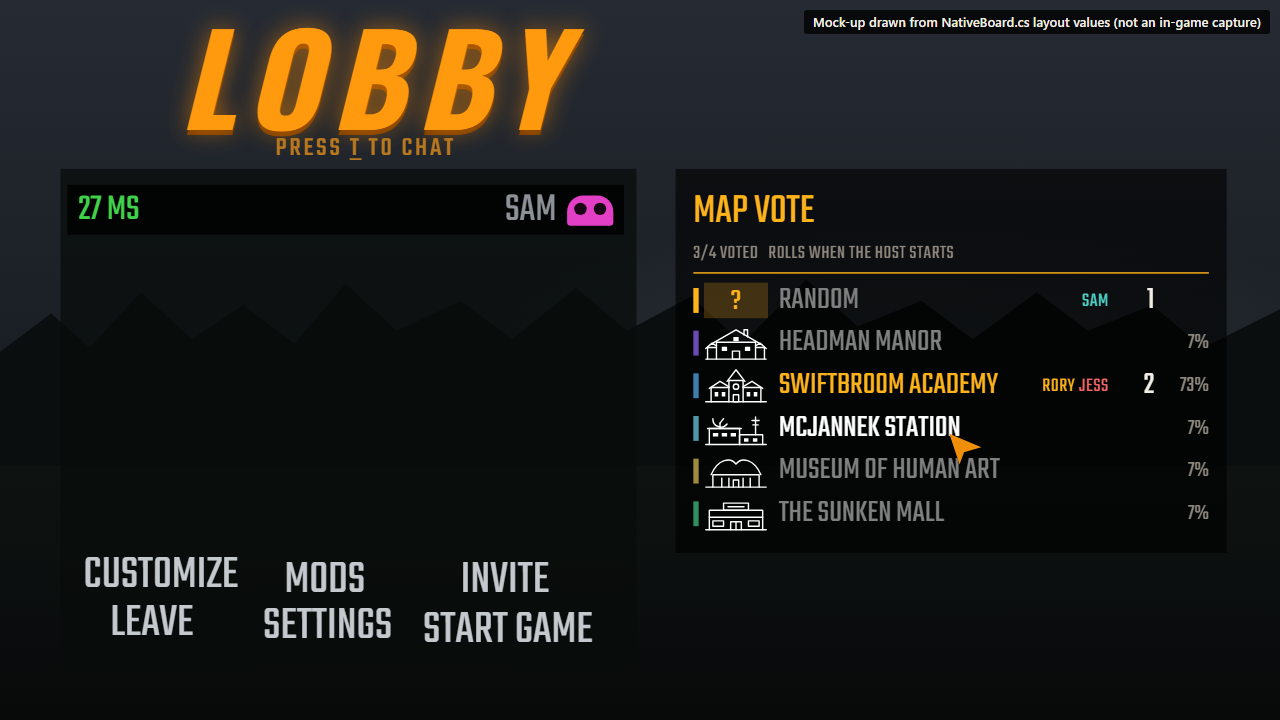
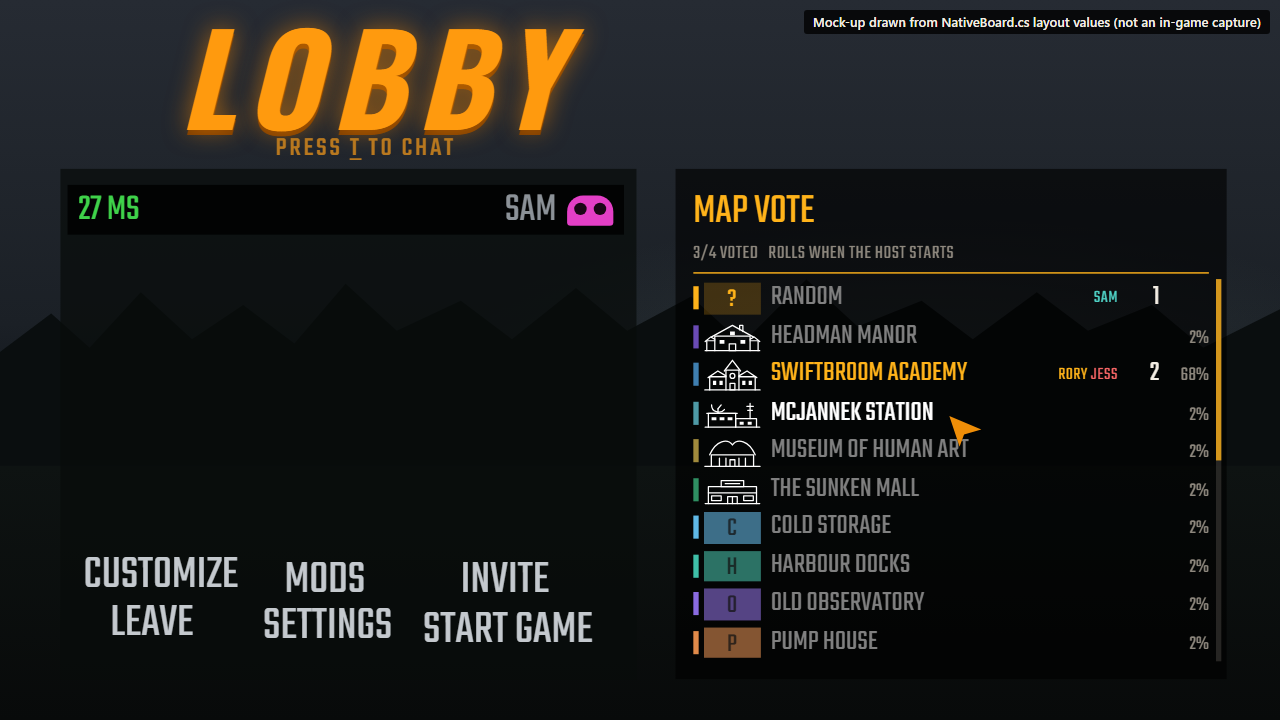
Scroll the lobby vote list when there are more maps than fit
The lobby list shrank its rows to fit every map in the panel, so with a
20-map custom pack the names came down to about 7.7pt. It now shows at
most ten rows: Random and the nine maps the number keys reach. Up to
ten share the panel's height as before, and the smallest row is 21.5
units tall, with names at about 16pt. Past ten, the rest scroll.

The mouse wheel over the panel moves the list a row a notch, as the
game's own scroll boxes do. A bar in the panel's right margin shows
where you are, and only appears when the list scrolls. Rows out of view
are switched off, so they can't be hovered or clicked. A row picked
with the keyboard or a gamepad at either end of the list brings the
next one into view. Pressing a number key for a map that is out of view
scrolls to it, and the winner is brought into view when the roll lands.
The header and status lines stay where they are.

Two columns would have fitted more rows, but the panel is 310 units
wide, which leaves about 50 units for a map's name in each column once
its art, voters, count and chance are in.

The lobby mock-up now shows a 20-map pack. Row sizes in the mock-up
CSS follow the row height, as they do in the code.

Changed region(s): [[0.5312, 0.3972, 0.7812, 0.9167], [0.8125, 0.3972, 0.9688, 0.9167], [0.8438, 0.3972, 0.9062, 0.4278]]

diff --git a/docs/mockups/mock-lobby.html b/docs/mockups/mock-lobby.html
@@ -1,7 +1,7 @@
 <!doctype html>
 <!--
-  Mock-up of the lobby vote panel, drawn from NativeBoard.cs layout values in the game's 720x405 menu space
-  (scaled to 1280x720). Not an in-game capture. Render with docs/mockups/render.ps1.
+  Mock-up of the lobby vote panel with a 20-map custom pack, drawn from NativeBoard.cs layout values in the game's
+  720x405 menu space (scaled to 1280x720). Not an in-game capture. Render with docs/mockups/render.ps1.
 -->
 <html lang="en">
 <head>
@@ -56,22 +56,30 @@
   <div class="button" style="left:148px;top:339px">SETTINGS</div>
   <div class="button" style="left:238px;top:341px">START GAME</div>
 
-  <!-- NativeBoard.BuildLobby: LobbyLeft 380, LobbyTop 310 (from the bottom), width 310, header 62, pitch 24 -->
-  <div class="vote" style="left:380px;top:95px;width:310px;height:216px">
+  <!-- NativeBoard.BuildLobby with a 20-map pack: LobbyLeft 380, LobbyTop 310 (from the bottom), width 310, header 62.
+       Random and the first nine maps (LobbyRows 10) share the 215 units under the header, so the pitch is 21.5;
+       the other eleven maps scroll, and the bar in the right margin shows 10 of 21 rows from the top.
+       Votes: Sam for Random, Rory and Jess for Swiftbroom, no previous map, so 2/3 + 1/60 = 68% and 1/60 = 2%. -->
+  <div class="vote" style="left:380px;top:95px;width:310px;height:287px">
     <div class="vote-title">MAP VOTE</div>
     <div class="vote-status">3/4 VOTED&nbsp;&nbsp;&nbsp;ROLLS WHEN THE HOST STARTS</div>
     <div class="vote-line"></div>
-    <div class="rows" style="top:62px">
+    <div class="rows" style="--p:21.5px;top:62px">
       <div class="row"><i style="background:#ffb31a"></i><span class="thumb random">?</span><b>RANDOM</b><em><span style="color:#4fd1c5">SAM</span></em><s>1</s><u></u></div>
-      <div class="row"><i style="background:#6a4bb5"></i><span class="thumb art-manor"></span><b>HEADMAN MANOR</b><em></em><s></s><u>7%</u></div>
-      <div class="row picked"><i style="background:#3f7fb0"></i><span class="thumb art-academy"></span><b>SWIFTBROOM ACADEMY</b><em><span style="color:#ffb31a">RORY</span> <span style="color:#f56565">JESS</span></em><s>2</s><u>73%</u></div>
-      <div class="row hover"><i style="background:#4e9aa6"></i><span class="thumb art-station"></span><b>MCJANNEK STATION</b><em></em><s></s><u>7%</u></div>
-      <div class="row"><i style="background:#a08a3c"></i><span class="thumb art-museum"></span><b>MUSEUM OF HUMAN ART</b><em></em><s></s><u>7%</u></div>
-      <div class="row"><i style="background:#2f8f62"></i><span class="thumb art-mall"></span><b>THE SUNKEN MALL</b><em></em><s></s><u>7%</u></div>
+      <div class="row"><i style="background:#6a4bb5"></i><span class="thumb art-manor"></span><b>HEADMAN MANOR</b><em></em><s></s><u>2%</u></div>
+      <div class="row picked"><i style="background:#3f7fb0"></i><span class="thumb art-academy"></span><b>SWIFTBROOM ACADEMY</b><em><span style="color:#ffb31a">RORY</span> <span style="color:#f56565">JESS</span></em><s>2</s><u>68%</u></div>
+      <div class="row hover"><i style="background:#4e9aa6"></i><span class="thumb art-station"></span><b>MCJANNEK STATION</b><em></em><s></s><u>2%</u></div>
+      <div class="row"><i style="background:#a08a3c"></i><span class="thumb art-museum"></span><b>MUSEUM OF HUMAN ART</b><em></em><s></s><u>2%</u></div>
+      <div class="row"><i style="background:#2f8f62"></i><span class="thumb art-mall"></span><b>THE SUNKEN MALL</b><em></em><s></s><u>2%</u></div>
+      <div class="row"><i style="background:#5fb8e6"></i><span class="thumb initial" style="background:#3d6e88">C</span><b>COLD STORAGE</b><em></em><s></s><u>2%</u></div>
+      <div class="row"><i style="background:#3fbfa8"></i><span class="thumb initial" style="background:#2c7265">H</span><b>HARBOUR DOCKS</b><em></em><s></s><u>2%</u></div>
+      <div class="row"><i style="background:#8a6be0"></i><span class="thumb initial" style="background:#554484">O</span><b>OLD OBSERVATORY</b><em></em><s></s><u>2%</u></div>
+      <div class="row"><i style="background:#e08a4a"></i><span class="thumb initial" style="background:#845532">P</span><b>PUMP HOUSE</b><em></em><s></s><u>2%</u></div>
     </div>
+    <div class="vote-scroll" style="top:62px;height:215px"><div style="top:0;height:102.4px"></div></div>
   </div>
 
-  <svg class="cursor" style="left:534px;top:244px" viewBox="0 0 50 48"><polygon points="0,0 50,21 23,29 16,48"/></svg>
+  <svg class="cursor" style="left:534px;top:234px" viewBox="0 0 50 48"><polygon points="0,0 50,21 23,29 16,48"/></svg>
 </div>
 <div class="tag">Mock-up drawn from NativeBoard.cs layout values (not an in-game capture)</div>
 </body>

diff --git a/docs/mockups/mockup.css b/docs/mockups/mockup.css
@@ -26,22 +26,39 @@ body { position: relative; }
 .vote-title { position: absolute; left: 10px; top: 9px; font: 400 24px/30px Teko, sans-serif; color: #ffb31a; }
 .vote-status { position: absolute; left: 10px; top: 39px; font: 400 11px/16px Teko, sans-serif; letter-spacing: 0.3px; color: #8e887e; }
 .vote-line { position: absolute; left: 10px; top: 57.5px; width: 290px; height: 1.5px; background: rgba(255, 179, 26, 0.8); }
-.rows { --w: 290px; position: absolute; left: 10px; width: var(--w); }
-.row { position: relative; height: 24px; }
-.row i { position: absolute; left: 0; top: 4.8px; width: 3px; height: 14.4px; }
+/* --w is the row width and --p the row height (pitch); every size inside a row follows from them, as in BuildRow. */
+.rows { --w: 290px; --p: 24px; --s: min(18px, calc(var(--p) * 0.75)); position: absolute; left: 10px; width: var(--w); }
+.row { position: relative; height: var(--p); }
+.row i { position: absolute; left: 0; top: calc(var(--p) * 0.2); width: 3px; height: calc(var(--p) * 0.6); }
 .row .thumb {
-  position: absolute; left: 6px; top: 2px; width: 36px; height: 20px;
+  position: absolute; left: 6px; top: 2px; width: calc((var(--p) - 4px) * 1.8); height: calc(var(--p) - 4px);
   background-position: center; background-size: cover; background-repeat: no-repeat;
 }
-.row .thumb.random { background: rgba(255, 179, 26, 0.22); color: #ffb31a; text-align: center; font: 400 17px/23px Teko, sans-serif; }
-.row b { position: absolute; left: 48px; top: 0; font: 400 18px/25px Teko, sans-serif; color: #808080; white-space: nowrap; }
-.row em {
-  position: absolute; left: calc(var(--w) * 0.6); width: calc(var(--w) * 0.4 - 56.3px); top: 0; text-align: right;
-  font: normal 400 11.2px/25px Teko, sans-serif; letter-spacing: 0.3px; white-space: nowrap; overflow: hidden;
+.row .thumb.random {
+  background: rgba(255, 179, 26, 0.22); color: #ffb31a; text-align: center;
+  font-family: Teko, sans-serif; font-weight: 400; font-size: calc((var(--p) - 4px) * 0.85); line-height: calc(var(--p) - 1px);
 }
-.row s { position: absolute; right: 30.7px; width: 21.6px; top: 0; text-align: right; text-decoration: none; font: 400 18px/25px Teko, sans-serif; color: #f3eee4; }
+/* A map without loading-screen art: its initial on its colour (set inline). */
+.row .thumb.initial {
+  color: rgba(20, 20, 20, 0.75); text-align: center;
+  font-family: Teko, sans-serif; font-weight: 400; font-size: calc((var(--p) - 4px) * 0.85); line-height: calc(var(--p) - 1px);
+}
+.row b, .row em, .row s, .row u {
+  position: absolute; top: 0; white-space: nowrap; text-decoration: none;
+  font-family: Teko, sans-serif; font-style: normal; font-weight: 400; line-height: calc(var(--p) + 1px);
+}
+.row b { left: calc((var(--p) - 4px) * 1.8 + 12px); font-size: var(--s); color: #808080; }
+/* From the right: the chance of winning, the vote count, then who voted. */
+.row em {
+  left: calc(var(--w) * 0.6); width: calc(var(--w) * 0.4 - var(--s) * 2.74 - 7px); text-align: right;
+  font-size: calc(var(--s) * 0.62); letter-spacing: 0.3px; overflow: hidden;
+}
+.row s { right: calc(var(--s) * 1.54 + 3px); width: calc(var(--s) * 1.2); text-align: right; font-size: var(--s); color: #f3eee4; }
 /* The map's chance of winning, blank until a vote is in and on the Random row. */
-.row u { position: absolute; right: 0; width: 27.7px; top: 0; text-align: right; text-decoration: none; font: 400 12.6px/25px Teko, sans-serif; color: #8e887e; }
+.row u { right: 0; width: calc(var(--s) * 1.54); text-align: right; font-size: calc(var(--s) * 0.7); color: #8e887e; }
+/* The lobby list's scroll bar, in the panel's right margin, shown when there are more maps than rows. */
+.vote-scroll { position: absolute; left: 303.5px; width: 3px; background: rgba(142, 136, 126, 0.25); }
+.vote-scroll > div { position: absolute; left: 0; width: 3px; background: rgba(255, 179, 26, 0.8); }
 /* Stand-ins for each level's loading-screen art, which is what the game shows in the thumbnail. */
 .art-manor { background-image: url("art/manor.svg"); }
 .art-academy { background-image: url("art/academy.svg"); }

diff --git a/src/NativeBoard.cs b/src/NativeBoard.cs
@@ -18,7 +18,9 @@ internal sealed class NativeBoard : MonoBehaviour
     // Lobby page space is the game's 720x405 menu UI with its origin bottom-left. The panel sits right of the lobby
     // panel, level with its top, and never runs below its bottom.
     private const float LobbyLeft = 380f, LobbyTop = 310f, LobbyBottom = 23f, LobbyWidth = 310f, LobbyHeader = 62f;
-    private const float Pad = 10f, MaxPitch = 24f, MaxNameSize = 18f;
+    private const float Pad = 10f, MaxPitch = 24f, MaxNameSize = 18f, ScrollBarWidth = 3f;
+    /// <summary>Most rows the lobby panel shows at once: Random and the nine maps the number keys reach. More maps scroll.</summary>
+    private const int LobbyRows = 10;
     /// <summary>Under the list, bottom-left of the right-hand popup: where REPOConfig puts its Save Changes button.</summary>
     private static readonly Vector2 SkipPosition = new(370f, 18f);
 
@@ -36,7 +38,12 @@ internal sealed class NativeBoard : MonoBehaviour
 
     private MenuPage? _page;
     private bool _lobby, _prompt;
-    private RectTransform? _lobbyBody, _lobbyPanel;
+    private RectTransform? _lobbyBody, _lobbyPanel, _scrollTrack, _scrollHandle;
+    // The lobby list's window: the first row in view, how many rows fit, and their height.
+    private int _first, _shown;
+    private float _pitch;
+    private int _lastHovered = -1;
+    private string? _followedWinner;
     private REPOPopupPage? _popup;
     private float _rowWidth;
     private TMP_FontAsset? _font;
@@ -69,7 +76,7 @@ internal sealed class NativeBoard : MonoBehaviour
     {
         // The board lives on the root, which stays active so it can show and hide the body. The body spans all the
         // room the panel may use and never resizes: its children keep a new rect's centre anchors, so a resize would
-        // shift the header. The backdrop is sized to however many maps are up for the vote.
+        // shift the header. The backdrop is sized to the rows in view.
         var root = Ui.Rect("MapVotePlusPlus", page);
         root.pivot = new Vector2(0f, 1f);
         root.localPosition = new Vector2(LobbyLeft, LobbyTop);
@@ -99,6 +106,16 @@ internal sealed class NativeBoard : MonoBehaviour
         line.pivot = Vector2.zero;
         line.localPosition = new Vector2(Pad, -LobbyHeader + 3f);
         line.sizeDelta = new Vector2(inner, 1.5f);
+
+        // In the panel's right margin, beside the rows. Shown only when there are more maps than fit.
+        var track = Ui.Image("ScrollBar", body, Ui.Muted.WithAlpha(0.25f)).rectTransform;
+        track.pivot = new Vector2(0f, 1f);
+        track.localPosition = new Vector2(LobbyWidth - (Pad + ScrollBarWidth) / 2f, -LobbyHeader);
+        var handle = Ui.Image("Handle", track, Ui.Amber.WithAlpha(0.8f)).rectTransform;
+        handle.pivot = new Vector2(0f, 1f);
+        track.gameObject.SetActive(false);
+        board._scrollTrack = track;
+        board._scrollHandle = handle;
 
         // Build the rows first: game buttons set themselves up in Awake, which doesn't run under an inactive parent.
         board.Refresh();
@@ -199,14 +216,16 @@ internal sealed class NativeBoard : MonoBehaviour
 
         if (_lobby)
         {
-            float pitch = Mathf.Min(MaxPitch, (LobbyTop - LobbyBottom - LobbyHeader - Pad) / options.Count);
-            _lobbyPanel!.sizeDelta = new Vector2(LobbyWidth, LobbyHeader + options.Count * pitch + Pad);
-            float y = -LobbyHeader;
-            foreach (var (choice, level) in options)
-            {
-                y -= pitch;
-                BuildRow(_lobbyBody!, choice, level, new Vector2(Pad, y), _rowWidth, pitch);
-            }
+            // Up to LobbyRows rows share the panel's height, none taller than MaxPitch. A longer list (a custom map
+            // pack) keeps that smallest height and scrolls, rather than shrinking its names until they can't be read.
+            _shown = Mathf.Min(options.Count, LobbyRows);
+            _pitch = Mathf.Min(MaxPitch, (LobbyTop - LobbyBottom - LobbyHeader - Pad) / _shown);
+            _lobbyPanel!.sizeDelta = new Vector2(LobbyWidth, LobbyHeader + _shown * _pitch + Pad);
+            foreach (var (choice, level) in options) BuildRow(_lobbyBody!, choice, level, Vector2.zero, _rowWidth, _pitch);
+            _first = 0;
+            _lastHovered = -1;
+            _followedWinner = null;
+            PlaceRows();
         }
         else
         {
@@ -297,8 +316,81 @@ internal sealed class NativeBoard : MonoBehaviour
             return;
         }
         Pick(_rows[index].Choice);
+        if (_lobby) ShowRow(index);
         Ui.Click(MenuManager.MenuClickEffectType.Confirm);
     }
+
+    // ---- lobby scrolling -----------------------------------------------------------------
+
+    /// <summary>
+    /// Puts the rows in view in their slots and switches the rest off, so a row out of view can't be hovered, clicked
+    /// or reached with the keyboard. Only called when the window moves or the rows are built.
+    /// </summary>
+    private void PlaceRows()
+    {
+        for (int i = 0; i < _rows.Count; i++)
+        {
+            bool inView = i >= _first && i < _first + _shown;
+            var row = _rows[i].Rect;
+            if (row.gameObject.activeSelf != inView) row.gameObject.SetActive(inView);
+            if (inView) row.localPosition = new Vector2(Pad, -LobbyHeader - (i - _first + 1) * _pitch);
+        }
+
+        bool scrolls = _rows.Count > _shown;
+        _scrollTrack!.gameObject.SetActive(scrolls);
+        if (!scrolls) return;
+        float height = _shown * _pitch;
+        _scrollTrack.sizeDelta = new Vector2(ScrollBarWidth, height);
+        _scrollHandle!.sizeDelta = new Vector2(ScrollBarWidth, height * _shown / _rows.Count);
+        _scrollHandle.localPosition = new Vector2(0f, -height * _first / _rows.Count);
+    }
+
+    private void ScrollTo(int first)
+    {
+        first = Mathf.Clamp(first, 0, Mathf.Max(0, _rows.Count - _shown));
+        if (first == _first) return;
+        _first = first;
+        PlaceRows();
+    }
+
+    /// <summary>Scrolls the least distance that brings a row into view.</summary>
+    private void ShowRow(int index)
+    {
+        if (index < 0) return;
+        if (index < _first) ScrollTo(index);
+        else if (index >= _first + _shown) ScrollTo(index - _shown + 1);
+    }
+
+    /// <summary>
+    /// The mouse wheel over the panel moves the list a row a notch, as the game's own scroll boxes do. A row picked
+    /// with the keyboard or a gamepad at either end of the window scrolls the next one into view, since the game's
+    /// navigation can't reach a row that is switched off. Each frame this only reads the wheel and the rows' hover
+    /// flags: the game's cursor check, which allocates, runs only on a wheel notch or when the hovered row changes.
+    /// </summary>
+    private void ScrollLobby()
+    {
+        var menu = MenuManager.instance;
+        if (_rows.Count <= _shown || !menu || menu.currentMenuPage != _page) return;
+
+        float wheel = SemiFunc.InputScrollY();
+        if (wheel != 0f && MouseOver(_lobbyPanel!)) ScrollTo(_first + (wheel > 0f ? -1 : 1));
+
+        int hovered = -1;
+        for (int i = _first; i < _first + _shown; i++)
+        {
+            if (!_rows[i].Button.menuButton.hovering) continue;
+            hovered = i;
+            break;
+        }
+        if (hovered == _lastHovered) return;
+        _lastHovered = hovered;
+        bool atTop = hovered > 0 && hovered == _first;
+        bool atBottom = hovered >= 0 && hovered < _rows.Count - 1 && hovered == _first + _shown - 1;
+        // The cursor hovers rows too. Scrolling under it would hover the next row, and that one the next.
+        if ((atTop || atBottom) && !MouseOver(_rows[hovered].Rect)) ScrollTo(_first + (atTop ? -1 : 1));
+    }
+
+    private bool MouseOver(RectTransform rect) => SemiFunc.UIMouseHover(_page, rect, null);
 
     // ---- state ---------------------------------------------------------------------------
 
@@ -314,6 +406,7 @@ internal sealed class NativeBoard : MonoBehaviour
         // Esc closes the truck vote; don't let the game also open its escape menu on the same press.
         if (!_lobby && GameDirector.instance) GameDirector.instance.disableEscMenuTimer = 0.2f;
         Refresh();
+        if (_lobby) ScrollLobby();
     }
 
     private void Refresh()
@@ -329,6 +422,12 @@ internal sealed class NativeBoard : MonoBehaviour
         string? winner = VoteUi.Instance ? VoteUi.Instance!.RevealedWinner : VoteSession.Winner;
         string? mine = VoteSession.MyVote;
         _status.text = problem?.Status ?? Status(phase, winner);
+        if (_lobby && winner != _followedWinner)
+        {
+            // Bring the winner into view when the roll lands.
+            _followedWinner = winner;
+            if (winner != null) ShowRow(_rows.FindIndex(r => r.Choice == winner));
+        }
 
         // MenuButton paints its text with colorNormal whenever it isn't hovered or pressed.
         foreach (var row in _rows)
